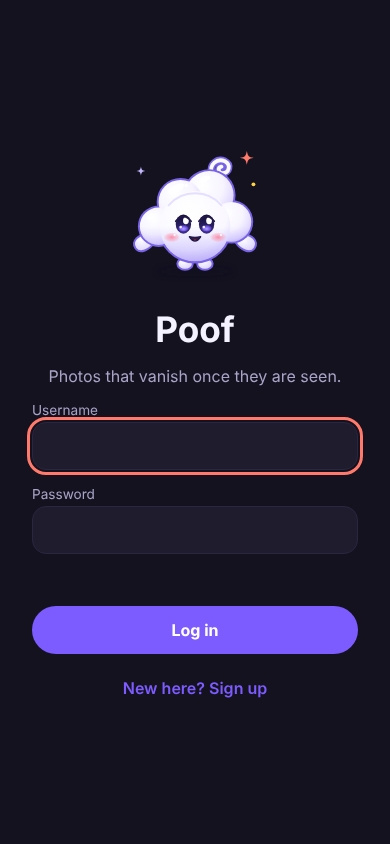
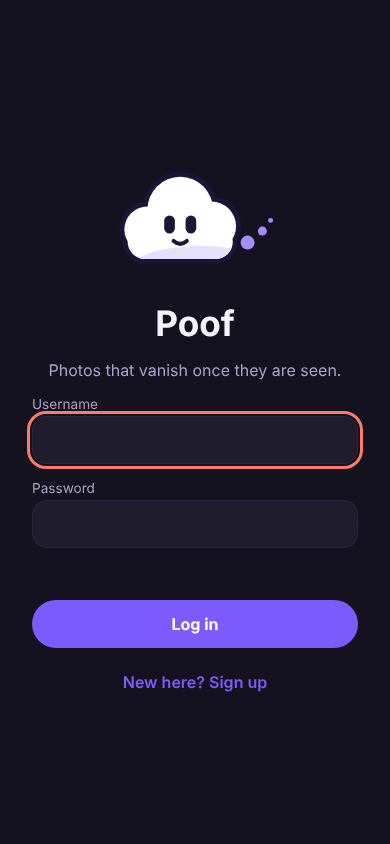
Redesign Puff: flat cloud drifting off in a trail of puffs
Replaces the shaded, kawaii Puff with a flat, bold mark built on the
product's one idea: things vanish. Puff is a clean cloud with an ink
outline and a trail of shrinking puffs, simple pill eyes and ten
expressions (the trail droops when sad and turns to z's when asleep).
A solid "mark" variant drives the app icon and holds up at 16px.

The "Poof!" pop-up becomes the one authored motion: Puff arrives, then
drifts off and fades, over a soft scrim for legibility. The login bob
is removed. Marketing art moves to flat brand violet. Kept chat
messages lose the side stripe for a thin ring. PRODUCT.md records the
brief.

Claude-Session: https://claude.ai/code/session_01C67QfwNZ9zEYn62kCMNv7X

Changed region(s): [[0.0615, 0.3697, 0.9231, 0.6161], [0.0615, 0.7085, 0.9231, 0.8318], [0.3077, 0.1848, 0.7077, 0.3389]]

diff --git a/poof/public/mascot.js b/poof/public/mascot.js
@@ -1,137 +1,79 @@
 'use strict';
-// Puff, the Poof mascot: a small cloud that vanishes. Drawn in code so it
-// scales anywhere and can change mood. mascotSVG(mood, size, label) -> SVG string.
+// Puff, the Poof mascot: a cloud drifting off in a trail of little puffs,
+// the way a snap goes "poof". Flat and bold so it reads as a mark at 16px and
+// still has room for expression. mascotSVG(mood, size, label, variant) -> SVG
+// variant: 'char' (white body, ink outline) | 'mark' (solid, for icons; colour = fill)
 (() => {
-  const INK = '#22184a';
-  const LINE = '#7a64e6'; // outline: keeps Puff readable at small sizes and on white
+  const INK = '#1c1538';
+  const SHADE = '#e6e0ff';
+  const ACCENT = '#ff5a6e';
+  const DRIFT = '#a48dff'; // the trail: light enough for dark screens, strong enough for light ones
   let uid = 0;
 
-  // face layout
-  const LX = 99;
-  const RX = 141;
-  const EY = 126;
-  const MY = 152;
+  // silhouette: one big puff, two side puffs, a flat rounded base
+  const BODY = '<circle cx="104" cy="82" r="40"/><circle cx="64" cy="106" r="28"/><circle cx="142" cy="102" r="30"/><rect x="40" y="100" width="128" height="42" rx="21"/>';
+  const TRAIL = { normal: [[186, 122, 8.5], [204, 108, 5.5], [214, 95, 3]], droop: [[184, 132, 8], [198, 146, 5], [206, 158, 3]] };
 
-  // ---------- eyes ----------
-  function eye(x, id, { dx = 0, dy = 0, big = false, outer = 1 } = {}) {
-    const rx = big ? 16 : 14;
-    const ry = big ? 17 : 17.5;
-    const cx = x + dx;
-    const cy = EY + dy;
-    return `<ellipse cx="${x}" cy="${EY}" rx="${rx}" ry="${ry}" fill="url(#${id}eye)"/>
-<ellipse cx="${cx}" cy="${cy + ry * 0.42}" rx="${rx * 0.66}" ry="${ry * 0.36}" fill="url(#${id}iris)"/>
-<ellipse cx="${cx + 4.5}" cy="${cy - 6}" rx="${big ? 6 : 5.2}" ry="${big ? 6.5 : 6.2}" fill="#fff"/>
-<circle cx="${cx - 5}" cy="${cy + 5.5}" r="${big ? 2.8 : 2.4}" fill="#fff" opacity=".9"/>
-<path d="M${x - rx} ${EY - 5} Q${x} ${EY - ry - 5} ${x + rx} ${EY - 5}" fill="none" stroke="${INK}" stroke-width="3" stroke-linecap="round"/>`;
-  }
-  const closedUp = (x) => `<path d="M${x - 13} ${EY + 4} Q${x} ${EY - 11} ${x + 13} ${EY + 4}" fill="none" stroke="${INK}" stroke-width="5.5" stroke-linecap="round"/>`;
-  const closedDown = (x, o) => `<path d="M${x - 13} ${EY} Q${x} ${EY + 11} ${x + 13} ${EY}" fill="none" stroke="${INK}" stroke-width="5.5" stroke-linecap="round"/><path d="M${x + o * 12} ${EY + 1} l${o * 6} 4" stroke="${INK}" stroke-width="3.2" stroke-linecap="round"/>`;
-  const chevron = (x, d) => `<path d="M${x - 10 * d} ${EY - 10} L${x + 9 * d} ${EY} L${x - 10 * d} ${EY + 10}" fill="none" stroke="${INK}" stroke-width="6" stroke-linecap="round" stroke-linejoin="round"/>`;
-  const heartEye = (x, id) => `<path d="M${x} ${EY + 15} C${x - 25} ${EY + 1} ${x - 14} ${EY - 22} ${x} ${EY - 9} C${x + 14} ${EY - 22} ${x + 25} ${EY + 1} ${x} ${EY + 15}Z" fill="url(#${id}heart)" stroke="#b80f3c" stroke-width="2"/><ellipse cx="${x - 7}" cy="${EY - 6}" rx="4.5" ry="3" fill="#fff" opacity=".9" transform="rotate(-30 ${x - 7} ${EY - 6})"/>`;
-  const brow = (x, tilt, o, y = EY - 28) => `<path d="M${x - 10} ${y + tilt * o} Q${x} ${y - 5} ${x + 10} ${y - tilt * o}" fill="none" stroke="${INK}" stroke-width="4" stroke-linecap="round"/>`;
+  // ---------- face parts (eyes at 91/117, y 100; mouth at y 120) ----------
+  const L = 91;
+  const R = 117;
+  const pill = (x, ink, h = 22, y = 100) => `<rect x="${x - 6.5}" y="${y - h / 2}" width="13" height="${h}" rx="6.5" fill="${ink}"/>`;
+  const arcUp = (x, ink) => `<path d="M${x - 8} 104 Q${x} 92 ${x + 8} 104" fill="none" stroke="${ink}" stroke-width="5.5" stroke-linecap="round"/>`;
+  const arcDown = (x, ink) => `<path d="M${x - 8} 99 Q${x} 108 ${x + 8} 99" fill="none" stroke="${ink}" stroke-width="5.5" stroke-linecap="round"/>`;
+  const round = (x, ink, bg) => `<circle cx="${x}" cy="100" r="9.5" fill="${ink}"/><circle cx="${x + 3}" cy="96.5" r="2.8" fill="${bg}"/>`;
+  const heart = (x) => `<path d="M${x} 110 C${x - 15} 101 ${x - 9} 88 ${x} 95 C${x + 9} 88 ${x + 15} 101 ${x} 110Z" fill="${ACCENT}"/>`;
+  const stroke = (d, ink, w = 5) => `<path d="${d}" fill="none" stroke="${ink}" stroke-width="${w}" stroke-linecap="round" stroke-linejoin="round"/>`;
 
-  // ---------- mouths ----------
-  const smile = `<path d="M108 ${MY - 2} Q120 ${MY + 11} 132 ${MY - 2}" fill="none" stroke="${INK}" stroke-width="4.8" stroke-linecap="round"/>`;
-  function openMouth(id, w = 12, h = 16) {
-    const d = `M${120 - w} ${MY - 3} Q120 ${MY - 3 + h * 1.3} ${120 + w} ${MY - 3} Q120 ${MY} ${120 - w} ${MY - 3}Z`;
-    return `<clipPath id="${id}mc"><path d="${d}"/></clipPath>
-<path d="${d}" fill="url(#${id}mouth)"/>
-<ellipse cx="120" cy="${MY - 3 + h * 0.85}" rx="${w * 0.62}" ry="${h * 0.38}" fill="#ff7c93" clip-path="url(#${id}mc)"/>
-<path d="${d}" fill="none" stroke="${INK}" stroke-width="2.8" stroke-linejoin="round"/>`;
-  }
-
-  // ---------- extras ----------
-  const tear = (x, y, s = 1) => `<path d="M${x} ${y} C${x - 6 * s} ${y + 11 * s} ${x - 5 * s} ${y + 17 * s} ${x} ${y + 17 * s} C${x + 5 * s} ${y + 17 * s} ${x + 6 * s} ${y + 11 * s} ${x} ${y}Z" fill="#7fd0ff" stroke="#2f8fd6" stroke-width="1.8"/><ellipse cx="${x - 1.5 * s}" cy="${y + 11 * s}" rx="${1.6 * s}" ry="${2.4 * s}" fill="#fff" opacity=".85"/>`;
-  const zz = '<g font-family="system-ui,sans-serif" font-weight="900" fill="#c3b8ff" stroke="#7a64e6" stroke-width="1.5" paint-order="stroke"><text x="186" y="56" font-size="28">z</text><text x="208" y="34" font-size="20">z</text><text x="224" y="16" font-size="14">z</text></g>';
-  const blushBig = (id) => `<ellipse cx="76" cy="150" rx="18" ry="11" fill="url(#${id}blush)"/><ellipse cx="164" cy="150" rx="18" ry="11" fill="url(#${id}blush)"/>`;
-
-  // mood -> { eyes, mouth, extra, arms, wisp (default true) }
+  // mood -> face(ink, bg) plus optional trail shape and extras
   const MOODS = {
-    happy: { eyes: (id) => eye(LX, id, { outer: -1 }) + eye(RX, id), mouth: (id) => openMouth(id, 10, 12), arms: 'rest' },
-    wink: { eyes: (id) => eye(LX, id, { outer: -1 }) + closedUp(RX), mouth: (id) => openMouth(id, 11, 14), arms: 'wave' },
-    sleepy: { eyes: () => closedDown(LX, -1) + closedDown(RX, 1), mouth: () => `<ellipse cx="120" cy="${MY + 3}" rx="5.5" ry="4.5" fill="#3e1a3a" stroke="${INK}" stroke-width="2"/>`, extra: () => zz, arms: 'rest' },
-    wow: { eyes: (id) => eye(LX, id, { big: true, outer: -1 }) + eye(RX, id, { big: true }) + brow(LX, 0, 1, EY - 34) + brow(RX, 0, 1, EY - 34), mouth: (id) => `<ellipse cx="120" cy="${MY + 5}" rx="8.5" ry="11" fill="url(#${id}mouth)" stroke="${INK}" stroke-width="2.8"/><ellipse cx="120" cy="${MY + 11}" rx="5" ry="3" fill="#ff7c93"/>`, arms: 'up' },
-    love: { eyes: (id) => heartEye(LX, id) + heartEye(RX, id), mouth: (id) => openMouth(id, 12, 15), extra: (id) => blushBig(id) + '<path d="M212 74 c-7 -6 -2 -14 4 -9 c6 -5 11 3 4 9 l-4 4z" fill="#ff3f6c" stroke="#b80f3c" stroke-width="1.5"/><path d="M24 90 c-5 -4 -1 -10 3 -6 c4 -4 8 2 3 6 l-3 3z" fill="#ff7a9a"/>', arms: 'cheeks' },
-    laugh: { eyes: () => chevron(LX, 1) + chevron(RX, -1), mouth: (id) => openMouth(id, 17, 22), extra: () => tear(72, 122, 0.85) + tear(168, 122, 0.85), arms: 'up' },
-    sad: { eyes: (id) => eye(LX, id, { dy: 3, outer: -1 }) + eye(RX, id, { dy: 3 }) + brow(LX, -4, -1) + brow(RX, -4, 1), mouth: () => `<path d="M108 ${MY + 8} Q120 ${MY - 3} 132 ${MY + 8}" fill="none" stroke="${INK}" stroke-width="4.8" stroke-linecap="round"/>`, extra: () => tear(84, 142), arms: 'rest' },
-    cool: {
-      eyes: (id) => `<path d="M76 114 L164 114 Q167 114 166 118 L163 132 Q159 144 147 144 L140 144 Q129 144 126 133 L124 124 L116 124 L114 133 Q111 144 100 144 L93 144 Q81 144 77 132 L74 118 Q73 114 76 114Z" fill="url(#${id}shades)" stroke="#0b0818" stroke-width="2.4"/><path d="M85 121 L99 121 M131 121 L145 121" stroke="#fff" stroke-width="3.5" stroke-linecap="round" opacity=".6"/><path d="M75 116 L62 109 M165 116 L178 109" stroke="#0b0818" stroke-width="3.5" stroke-linecap="round"/>`,
-      mouth: () => `<path d="M110 ${MY + 2} Q125 ${MY + 6} 135 ${MY - 7}" fill="none" stroke="${INK}" stroke-width="4.8" stroke-linecap="round"/>`, arms: 'wave',
+    happy: { face: (k) => pill(L, k) + pill(R, k) + stroke('M96 120 Q104 127 112 120', k) },
+    wink: { face: (k) => pill(L, k) + arcUp(R, k) + stroke('M95 119 Q105 128 114 117', k) },
+    sleepy: {
+      face: (k) => arcDown(L, k) + arcDown(R, k) + `<ellipse cx="104" cy="122" rx="4.5" ry="4" fill="${k}"/>`,
+      trail: (k) => `<g fill="${k}" font-family="system-ui,sans-serif" font-weight="900"><text x="178" y="128" font-size="20">z</text><text x="196" y="110" font-size="14">z</text><text x="208" y="96" font-size="10">z</text></g>`,
     },
-    shy: { eyes: (id) => eye(LX, id, { dx: -4, dy: 4, outer: -1 }) + eye(RX, id, { dx: -4, dy: 4 }), mouth: () => `<path d="M114 ${MY + 2} Q120 ${MY + 6} 126 ${MY + 2}" fill="none" stroke="${INK}" stroke-width="4" stroke-linecap="round"/>`, extra: (id) => blushBig(id) + blushBig(id), arms: 'cheeks' },
+    wow: { face: (k, bg) => round(L, k, bg) + round(R, k, bg) + `<ellipse cx="104" cy="124" rx="5.5" ry="7" fill="${k}"/>` },
+    love: { face: (k) => heart(L) + heart(R) + stroke('M96 120 Q104 127 112 120', k) },
+    laugh: { face: (k) => arcUp(L, k) + arcUp(R, k) + `<path d="M93 115 Q104 134 115 115Z" fill="${k}"/>` },
+    sad: {
+      face: (k, bg) => pill(L, k, 20, 102) + pill(R, k, 20, 102) +
+        `<path d="M82 90 L100 90 L82 99Z M126 90 L108 90 L126 99Z" fill="${bg}"/>` + stroke('M96 126 Q104 119 112 126', k),
+      droop: true,
+    },
+    cool: {
+      face: (k) => `<path d="M76 94 L132 94 L130 104 Q128 111 120 111 Q111 111 109 104 L107 99 L101 99 L99 104 Q97 111 88 111 Q80 111 78 104Z" fill="${k}"/>` +
+        stroke('M97 122 Q106 125 113 117', k),
+    },
+    shy: {
+      face: (k) => pill(L - 2, k, 16, 103) + pill(R - 2, k, 16, 103) + stroke('M99 121 Q103 124 107 121', k, 4.5) +
+        `<ellipse cx="78" cy="116" rx="8" ry="4.5" fill="${ACCENT}" opacity=".35"/><ellipse cx="130" cy="116" rx="8" ry="4.5" fill="${ACCENT}" opacity=".35"/>`,
+    },
     party: {
-      eyes: () => closedUp(LX) + closedUp(RX), mouth: (id) => openMouth(id, 15, 20), wisp: false,
-      extra: (id) => `<g transform="rotate(14 146 30)"><path d="M120 44 L146 -18 L172 44 Q146 53 120 44Z" fill="url(#${id}hat)" stroke="#b8402f" stroke-width="2.4"/><path d="M129 24 Q146 30 163 24 M137 5 Q146 9 155 5" fill="none" stroke="#ffd23f" stroke-width="5.5" stroke-linecap="round"/><circle cx="146" cy="-20" r="9" fill="#ffd23f" stroke="#d99a12" stroke-width="2.2"/></g>
-<g>${[[24, 64, '#3db4ff', 20], [214, 96, '#3ddc97', -30], [40, 30, '#ff5d8f', 40], [206, 44, '#ffd23f', 15], [12, 116, '#7c5cff', -20], [226, 150, '#ff7a6b', 30]].map(([x, y, c, r]) => `<rect x="${x}" y="${y}" width="7" height="13" rx="2" fill="${c}" transform="rotate(${r} ${x + 3} ${y + 6})"/>`).join('')}</g>`,
-      arms: 'up',
+      face: (k) => arcUp(L, k) + arcUp(R, k) + `<path d="M93 115 Q104 134 115 115Z" fill="${k}"/>`,
+      hat: (k) => `<g transform="rotate(14 112 46)"><path d="M97 54 L112 16 L127 54Z" fill="${ACCENT}" stroke="${k}" stroke-width="5" stroke-linejoin="round"/><path d="M102 42 L122 42" stroke="#fff" stroke-width="4" stroke-linecap="round"/><circle cx="112" cy="14" r="6" fill="#ffd23f" stroke="${k}" stroke-width="3"/></g>`,
     },
   };
 
-  // ---------- limbs ----------
-  function arms(pose, id) {
-    const arm = (d) => `<path d="${d}" fill="url(#${id}limb)" stroke="${LINE}" stroke-width="3.5" stroke-linejoin="round"/>`;
-    const restL = 'M38 146 C16 142 4 158 12 170 C20 182 38 172 46 160Z';
-    const restR = 'M202 146 C224 142 236 158 228 170 C220 182 202 172 194 160Z';
-    switch (pose) {
-      case 'wave': return {
-        back: arm(restL) + arm('M200 126 C210 104 222 82 234 86 C246 92 236 116 216 142Z'),
-        front: '<path d="M242 72 q7 5 5 14 M251 64 q9 7 7 20" fill="none" stroke="#c3b8ff" stroke-width="3.5" stroke-linecap="round"/>',
-      };
-      case 'up': return { back: arm('M40 132 C18 116 6 92 16 84 C26 78 40 104 54 124Z') + arm('M200 132 C222 116 234 92 224 84 C214 78 200 104 186 124Z'), front: '' };
-      case 'cheeks': return { back: '', front: arm('M54 172 C42 162 44 144 58 142 C72 142 76 160 68 170Z') + arm('M186 172 C198 162 196 144 182 142 C168 142 164 160 172 170Z') };
-      default: return { back: arm(restL) + arm(restR), front: '' };
-    }
-  }
-
-  // the cloud: outer puffs, then a central face puff on top so the creases read
-  const PUFFS = [[146, 74, 44], [94, 86, 40], [186, 122, 36], [54, 130, 34]];
-  const FACE = [120, 130, 64];
-
-  function mascotSVG(mood = 'happy', size = 96, label = 'Puff, the Poof mascot') {
+  function mascotSVG(mood = 'happy', size = 96, label = 'Puff, the Poof mascot', variant = 'char', color = '#ffffff') {
     const m = MOODS[mood] || MOODS.happy;
     const id = 'pf' + (++uid);
-    const pose = arms(m.arms, id);
-    const all = [...PUFFS, FACE];
-    const circles = (grow, attrs = '') => all.map(([x, y, r]) => `<circle cx="${x}" cy="${y}" r="${r + grow}"${attrs}/>`).join('');
-    const sparkle = (x, y, s, c) => `<path d="M${x} ${y - 9 * s} C${x + 1.5 * s} ${y - 2 * s} ${x + 2 * s} ${y - 1.5 * s} ${x + 9 * s} ${y} C${x + 2 * s} ${y + 1.5 * s} ${x + 1.5 * s} ${y + 2 * s} ${x} ${y + 9 * s} C${x - 1.5 * s} ${y + 2 * s} ${x - 2 * s} ${y + 1.5 * s} ${x - 9 * s} ${y} C${x - 2 * s} ${y - 1.5 * s} ${x - 1.5 * s} ${y - 2 * s} ${x} ${y - 9 * s}Z" fill="${c}"/>`;
-    const wisp = 'M150 34 C146 18 160 6 174 12 C186 18 182 34 170 34 C162 34 160 24 168 22';
-    const label_ = label ? ` role="img" aria-label="${label}"` : ' aria-hidden="true"';
-    return `<svg xmlns="http://www.w3.org/2000/svg" viewBox="-16 -30 272 272" width="${size}" height="${size}"${label_}>
-<defs>
-  <radialGradient id="${id}puff" cx=".36" cy=".3" r=".78"><stop offset="0" stop-color="#ffffff"/><stop offset=".55" stop-color="#f7f4ff"/><stop offset=".85" stop-color="#e2daff"/><stop offset="1" stop-color="#cdc1ff"/></radialGradient>
-  <radialGradient id="${id}face" cx=".42" cy=".32" r=".75"><stop offset="0" stop-color="#ffffff"/><stop offset=".7" stop-color="#faf8ff"/><stop offset=".92" stop-color="#e6dfff"/><stop offset="1" stop-color="#d3c8ff"/></radialGradient>
-  <radialGradient id="${id}limb" cx=".35" cy=".3" r=".85"><stop offset="0" stop-color="#ffffff"/><stop offset="1" stop-color="#d6ccff"/></radialGradient>
-  <linearGradient id="${id}shade" x1="0" y1="0" x2="0" y2="1"><stop offset=".62" stop-color="#8f7cff" stop-opacity="0"/><stop offset="1" stop-color="#7c64f0" stop-opacity=".5"/></linearGradient>
-  <linearGradient id="${id}eye" x1="0" y1="0" x2="0" y2="1"><stop offset="0" stop-color="#140d33"/><stop offset=".6" stop-color="#2a1f63"/><stop offset="1" stop-color="#3d2f8a"/></linearGradient>
-  <radialGradient id="${id}iris" cx=".5" cy=".6" r=".6"><stop offset="0" stop-color="#b6a6ff"/><stop offset=".6" stop-color="#7c5cff" stop-opacity=".8"/><stop offset="1" stop-color="#7c5cff" stop-opacity="0"/></radialGradient>
-  <radialGradient id="${id}blush"><stop offset="0" stop-color="#ff6f8e" stop-opacity=".75"/><stop offset=".7" stop-color="#ff8fa6" stop-opacity=".35"/><stop offset="1" stop-color="#ff8fa6" stop-opacity="0"/></radialGradient>
-  <linearGradient id="${id}mouth" x1="0" y1="0" x2="0" y2="1"><stop offset="0" stop-color="#5a2346"/><stop offset="1" stop-color="#2a0e2c"/></linearGradient>
-  <linearGradient id="${id}heart" x1="0" y1="0" x2="0" y2="1"><stop offset="0" stop-color="#ff86a3"/><stop offset="1" stop-color="#ff2457"/></linearGradient>
-  <linearGradient id="${id}shades" x1="0" y1="0" x2="0" y2="1"><stop offset="0" stop-color="#3d3175"/><stop offset="1" stop-color="#0b0818"/></linearGradient>
-  <linearGradient id="${id}hat" x1="0" y1="0" x2="1" y2="1"><stop offset="0" stop-color="#ffa292"/><stop offset="1" stop-color="#ff5466"/></linearGradient>
-  <filter id="${id}blur" x="-50%" y="-50%" width="200%" height="200%"><feGaussianBlur stdDeviation="6"/></filter>
-  <clipPath id="${id}clip">${circles(0)}</clipPath>
-</defs>
-<ellipse cx="120" cy="212" rx="70" ry="9" fill="#0c0820" opacity=".3" filter="url(#${id}blur)"/>
-<g fill="url(#${id}limb)" stroke="${LINE}" stroke-width="3.5"><ellipse cx="102" cy="198" rx="14" ry="11"/><ellipse cx="138" cy="198" rx="14" ry="11"/></g>
-${pose.back}
-${m.wisp === false ? '' : `<path d="${wisp}" fill="none" stroke="${LINE}" stroke-width="13" stroke-linecap="round"/><path d="${wisp}" fill="none" stroke="#fbfaff" stroke-width="7" stroke-linecap="round"/>`}
-<g fill="${LINE}">${circles(3.5)}</g>
-<g>${PUFFS.map(([x, y, r]) => `<circle cx="${x}" cy="${y}" r="${r}" fill="url(#${id}puff)"/>`).join('')}</g>
-<g clip-path="url(#${id}clip)">
-  <circle cx="${FACE[0]}" cy="${FACE[1]}" r="${FACE[2]}" fill="url(#${id}face)"/>
-  <path d="M72 92 A64 64 0 0 1 168 92" fill="none" stroke="#c9bdff" stroke-width="3.5" stroke-linecap="round" opacity=".45"/>
-  <rect x="-20" y="0" width="280" height="210" fill="url(#${id}shade)"/>
-  <g fill="#fff"><ellipse cx="86" cy="62" rx="16" ry="7" transform="rotate(-30 86 62)" opacity=".95"/><ellipse cx="138" cy="44" rx="10" ry="5" transform="rotate(-18 138 44)" opacity=".9"/><ellipse cx="40" cy="112" rx="8" ry="4" transform="rotate(-45 40 112)" opacity=".85"/><circle cx="104" cy="56" r="3" opacity=".9"/></g>
-</g>
-${pose.front}
-<ellipse cx="78" cy="150" rx="15" ry="9" fill="url(#${id}blush)"/><ellipse cx="162" cy="150" rx="15" ry="9" fill="url(#${id}blush)"/>
-<circle cx="83" cy="146" r="2" fill="#fff" opacity=".9"/><circle cx="167" cy="146" r="2" fill="#fff" opacity=".9"/>
-${m.eyes(id)}
-${m.mouth(id)}
-${m.extra ? m.extra(id) : ''}
-${sparkle(214, 6, 1.4, '#ff7a6b')}${sparkle(22, 30, 0.9, '#c3b8ff')}<circle cx="226" cy="54" r="3.5" fill="#ffd23f"/>
-</svg>`;
+    const dots = (m.droop ? TRAIL.droop : TRAIL.normal).map(([x, y, r]) => `<circle cx="${x}" cy="${y}" r="${r}"/>`).join('');
+    const a11y = label ? ` role="img" aria-label="${label}"` : ' aria-hidden="true"';
+    let art;
+    if (variant === 'mark') {
+      // solid silhouette with the face knocked out: for icons and tiny sizes
+      const k = '#000';
+      art = `<defs><mask id="${id}k" maskUnits="userSpaceOnUse" x="0" y="0" width="240" height="200"><rect width="240" height="200" fill="#fff"/>${m.face(k, '#fff')}</mask></defs>
+<g fill="${color}" mask="url(#${id}k)">${BODY}${m.trail ? '' : dots}</g>${m.trail ? m.trail(color) : ''}${m.hat ? m.hat(color) : ''}`;
+    } else {
+      art = `<defs><clipPath id="${id}c">${BODY}</clipPath></defs>
+<g fill="${INK}" stroke="${INK}" stroke-width="12" stroke-linejoin="round">${BODY}</g>
+<g fill="#fff">${BODY}</g>
+<g clip-path="url(#${id}c)"><ellipse cx="128" cy="160" rx="92" ry="34" fill="${SHADE}"/></g>
+<g class="puff-trail" fill="${DRIFT}">${m.trail ? m.trail(DRIFT) : dots}</g>
+${m.face(INK, '#fff')}${m.hat ? m.hat(INK) : ''}`;
+    }
+    return `<svg xmlns="http://www.w3.org/2000/svg" viewBox="20 2 204 168" width="${size}" height="${Math.round(size * 168 / 204)}"${a11y}>${art}</svg>`;
   }
 
   window.mascotSVG = mascotSVG;

diff --git a/poof/public/styles.css b/poof/public/styles.css
@@ -57,17 +57,22 @@ button { cursor: pointer; }
 .mascot { display: inline-block; line-height: 0; }
 .mascot svg { display: block; }
 .empty .mascot { display: block; width: fit-content; margin: 0 auto var(--space-3); }
-.float { animation: float 3.2s ease-in-out infinite; }
-@keyframes float { 50% { transform: translateY(-8px); } }
-.puff-pop { position: fixed; inset: 0; z-index: 60; display: flex; flex-direction: column; align-items: center; justify-content: center; gap: var(--space-3); pointer-events: none; color: var(--text); font-size: 1.3rem; text-shadow: 0 2px 8px rgb(0 0 0 / .6); animation: puff-pop 1.3s ease-out forwards; }
-@keyframes puff-pop {
-  0% { opacity: 0; transform: scale(.4); }
-  25% { opacity: 1; transform: scale(1.08); }
-  70% { opacity: 1; transform: scale(1); filter: blur(0); }
-  100% { opacity: 0; transform: scale(1.5); filter: blur(6px); }
+.puff-pop { position: fixed; inset: 0; z-index: 60; display: flex; flex-direction: column; align-items: center; justify-content: center; gap: var(--space-3); pointer-events: none; color: var(--text); font-size: 1.3rem; text-shadow: 0 2px 8px rgb(0 0 0 / .6); background: radial-gradient(circle at 50% 50%, rgb(20 18 31 / .82), rgb(20 18 31 / 0) 62%); animation: puff-say 1.5s cubic-bezier(.16, 1, .3, 1) forwards; }
+/* the one authored moment: Puff arrives, then drifts off and is gone */
+.puff-pop .mascot { animation: puff-drift 1.5s cubic-bezier(.16, 1, .3, 1) forwards; }
+.puff-pop strong { animation: puff-say 1.5s cubic-bezier(.16, 1, .3, 1) forwards; }
+.puff-pop .puff-trail circle { animation: puff-trail 1.5s ease-out forwards; }
+.puff-pop .puff-trail circle:nth-child(2) { animation-delay: .06s; }
+.puff-pop .puff-trail circle:nth-child(3) { animation-delay: .12s; }
+@keyframes puff-drift {
+  0% { opacity: 0; transform: translateY(12px); }
+  22%, 58% { opacity: 1; transform: none; filter: blur(0); }
+  100% { opacity: 0; transform: translate(110px, -36px) scale(.8); filter: blur(3px); }
 }
+@keyframes puff-say { 0% { opacity: 0; } 22%, 62% { opacity: 1; } 100% { opacity: 0; } }
+@keyframes puff-trail { 0%, 50% { opacity: 1; } 80%, 100% { opacity: 0; } }
 @media (prefers-reduced-motion: reduce) {
-  .float, .puff-pop { animation: none; }
+  .puff-pop .mascot, .puff-pop strong, .puff-pop .puff-trail circle { animation: puff-say 1.5s linear forwards; }
 }
 .auth h1 { text-align: center; margin: 0; font-size: 2.2rem; }
 .auth p { text-align: center; color: var(--text-dim); margin: 0; }
@@ -151,7 +156,7 @@ button { cursor: pointer; }
 .thread { flex: 1; overflow-y: auto; padding: var(--space-4); display: flex; flex-direction: column; gap: var(--space-2); }
 .msg { max-width: 80%; padding: var(--space-2) var(--space-3); border-radius: var(--radius); background: var(--surface-2); border: 0; text-align: left; overflow-wrap: anywhere; }
 .msg.mine { align-self: flex-end; background: var(--brand); color: var(--brand-ink); }
-.msg.saved { box-shadow: inset 4px 0 0 var(--accent); }
+.msg.saved { box-shadow: 0 0 0 2px var(--accent); }
 .msg small { display: block; font-size: .7rem; opacity: .75; margin-top: 2px; }
 .composer { display: flex; gap: var(--space-2); padding: var(--space-3) var(--space-4); padding-bottom: max(var(--space-3), env(safe-area-inset-bottom)); background: var(--surface); }
 .composer input { flex: 1; min-height: var(--tap); border-radius: var(--radius-pill); border: 0; padding: 0 var(--space-4); background: var(--surface-2); }

diff --git a/poof/brand/render.js b/poof/brand/render.js
@@ -23,12 +23,9 @@ const CAST = [
 const css = `
   * { box-sizing: border-box; margin: 0; }
   body { font-family: system-ui, -apple-system, "Segoe UI", Roboto, sans-serif; color: #fff; overflow: hidden; }
-  .bg { position: absolute; inset: 0; background:
-      radial-gradient(60% 70% at 70% 40%, #9b82ff 0%, transparent 70%),
-      radial-gradient(50% 60% at 15% 90%, #ff7a6b55 0%, transparent 70%),
-      linear-gradient(160deg, #6a48f5 0%, #2a1f66 100%); }
-  .dots { position: absolute; inset: 0; background-image: radial-gradient(#ffffff22 1.5px, transparent 1.5px); background-size: 28px 28px; }
-  .puff { position: absolute; filter: drop-shadow(0 30px 40px rgb(20 10 60 / .45)); }
+  .bg { position: absolute; inset: 0; background: #6d4cff; }
+  .dots { display: none; }
+  .puff { position: absolute; filter: drop-shadow(0 18px 24px rgb(20 10 60 / .3)); }
   .puff svg { width: 100%; height: auto; display: block; }
   .av { position: absolute; border-radius: 50%; box-shadow: 0 0 0 6px #ffffff, 0 18px 30px rgb(20 10 60 / .4); }
   .av svg { display: block; }
@@ -54,7 +51,7 @@ function social(m, a) {
   <div class="av" style="left:1080px;top:430px">${a(2, 92)}</div>
   <div class="av" style="left:700px;top:470px">${a(3, 80)}</div>
   <div class="bubble" style="left:820px;top:520px;font-size:24px">New snap from Ava 📸</div>
-  <svg class="spark" style="left:980px;top:60px" width="34" height="34" viewBox="0 0 10 10"><path d="M5 0l1.3 3.7L10 5 6.3 6.3 5 10 3.7 6.3 0 5l3.7-1.3z" fill="currentColor"/></svg>`;
+`;
 }
 
 function story(m, a) {

diff --git a/poof/public/app.js b/poof/public/app.js
@@ -120,7 +120,7 @@
         btn.disabled = false;
       }
     } },
-      h('div', { class: 'logo float' }, puff('happy', 150, 'Puff, the Poof mascot')),
+      h('div', { class: 'logo' }, puff('happy', 168, 'Puff, the Poof mascot')),
       h('h1', {}, 'Poof'),
       h('p', {}, signup ? 'Make an account. It takes ten seconds.' : 'Photos that vanish once they are seen.'),
       signup && h('label', { class: 'field' }, h('span', {}, 'Your name'),

diff --git a/poof/PRODUCT.md b/poof/PRODUCT.md
@@ -1,0 +1,44 @@
+# Product
+
+<!-- impeccable:product-schema 1 -->
+
+## Platform
+
+web
+
+## Users
+Adults sharing everyday moments with close friends and family: quick photos
+that disappear once seen, plus light chat and 24-hour stories.
+
+## Product Purpose
+Poof is a camera-first messaging web app. Photos open once and are gone;
+chats vanish 24 hours after they are read unless kept. Success is people
+snapping each other casually and often, without worrying about a permanent
+record.
+
+## Positioning
+Sharing without a permanent record: a snap is meant to be seen once and then
+go "poof".
+
+## Capabilities and Constraints
+- Camera, caption and drawing editor, open-once snaps, disappearing chat,
+  stories, friends, streaks, personal avatars, live updates.
+- Zero-dependency Node server and plain HTML/CSS/JS client.
+- Everything visual (mascot, avatars, icon, marketing art) is drawn in code
+  as SVG so it stays sharp at any size.
+- Clean room: no Snapchat names, ghost, yellow, assets or copy.
+
+## Brand Commitments
+- Name: Poof (working name; trademark check still to do).
+- Mascot: Puff, a cloud. It must read as a mark at icon size (16–48px) and
+  also stretch to expressive moments in the app, both equally.
+- Puff must not be babyish or kawaii, cluttered, oddly shaped, or generic
+  (all four were rejected in the previous design).
+
+## Evidence on Hand
+No users, testimonials, press or metrics yet. Marketing must not invent any.
+
+## Product Principles
+- Light, not permanent: the product's whole point is that things vanish.
+- Adults first: friendly and warm, never childish.
+- One clear thing at a time: simple screens, one primary action.

diff --git a/poof/README.md b/poof/README.md
@@ -9,10 +9,10 @@ method; the planning files are in [`replica/`](replica/).
 
 ## Meet Puff
 
-Puff is the Poof mascot: a little cloud that vanishes, the way your snaps
-do. A puffy, shaded cloud with glossy eyes, a curl of wisp on top, stubby
-legs and arms that pose with the mood. Drawn in code (`public/mascot.js`),
-so it stays sharp from app icon to poster. Puff greets you on the login
+Puff is the Poof mascot: a flat, bold cloud drifting off in a trail of
+little puffs, the way a snap goes "poof". It reads as a mark at 16px (the
+app icon is the solid version) and has 10 expressions for the app. Drawn in
+code (`public/mascot.js`), so it stays sharp from icon to poster. Puff greets you on the login
 screen, naps on empty screens, and pops up with a "Poof!" when you send a
 snap or one disappears.
 
